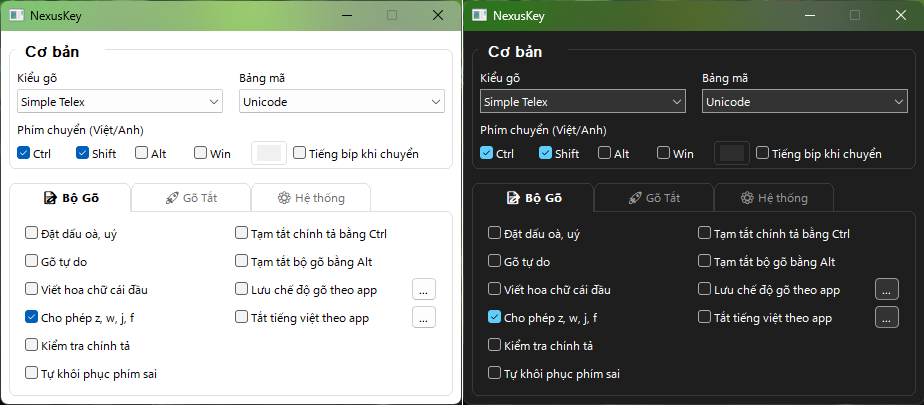
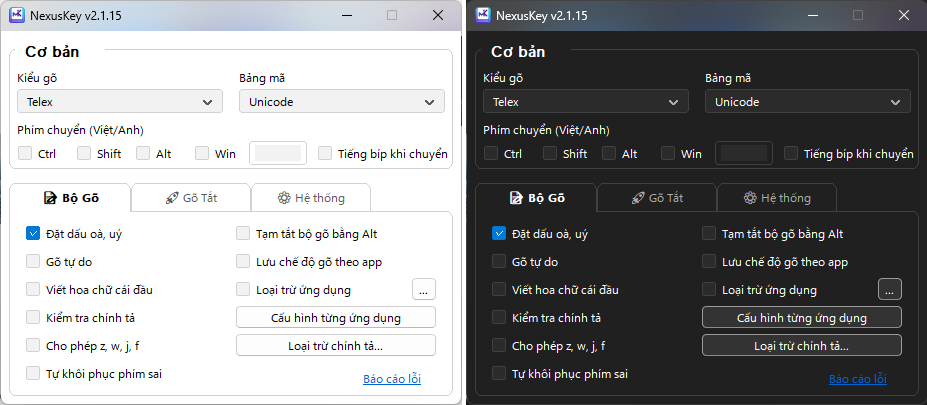
fix: Classic UI fixes — Win10 rendering, GDI leak, theme switch, layout
- Fix Win10 text rendering: TRANSPARENT bkmode → OPAQUE with SetBkColor
  for static/button controls (fixes washed-out text on Win10)
- Fix GDI font leak: call DestroyFonts() before CreateFonts() on re-init
- Fix font not updating on force-light-theme toggle (add SetFontOnAllChildren)
- Fix ConvertTool dialog: dynamic relayout on file/clipboard mode switch,
  custom rounded border for hotkey edit, store label HWNDs for repositioning
- Move force-light-theme setting to right column in SettingMetadata
- Use bodyBold instead of header font for section labels

diff --git a/src/app/classic/ClassicConvertToolDialog.cpp b/src/app/classic/ClassicConvertToolDialog.cpp
@@ -122,8 +122,8 @@ void ClassicConvertToolDialog::CreateControls() {
             hInstance_, nullptr);
     };
 
-    auto label = [&](const wchar_t* text, int cx, int cy, int w) {
-        CreateWindowExW(0, L"STATIC", text, WS_CHILD | WS_VISIBLE | SS_LEFT,
+    auto label = [&](const wchar_t* text, int cx, int cy, int w) -> HWND {
+        return CreateWindowExW(0, L"STATIC", text, WS_CHILD | WS_VISIBLE | SS_LEFT,
             cx, cy, w, rowH, hwnd_, nullptr, hInstance_, nullptr);
     };
 
@@ -171,7 +171,7 @@ void ClassicConvertToolDialog::CreateControls() {
     int browseW = Dpi(28);
     int pathW = cw - Dpi(70) - browseW - Dpi(4);
 
-    labelSourceFile_ = CreateWindowExW(0, L"STATIC", L"File ngu\x1ED3n:",
+    labelSourceFile_ = CreateWindowExW(0, L"STATIC", L"File nguồn:",
         WS_CHILD | SS_LEFT, x, y + Dpi(4), Dpi(70), rowH,
         hwnd_, nullptr, hInstance_, nullptr);
     editSourcePath_ = CreateWindowExW(WS_EX_CLIENTEDGE, L"EDIT", L"",
@@ -184,7 +184,7 @@ void ClassicConvertToolDialog::CreateControls() {
         hwnd_, reinterpret_cast<HMENU>(static_cast<INT_PTR>(IDC_BTN_BROWSE_SOURCE)), hInstance_, nullptr);
     y += rowH + gap + Dpi(4);
 
-    labelDestFile_ = CreateWindowExW(0, L"STATIC", L"File \x0111\x00EDch:",
+    labelDestFile_ = CreateWindowExW(0, L"STATIC", L"File đích:",
         WS_CHILD | SS_LEFT, x, y + Dpi(4), Dpi(70), rowH,
         hwnd_, nullptr, hInstance_, nullptr);
     editDestPath_ = CreateWindowExW(WS_EX_CLIENTEDGE, L"EDIT", L"",
@@ -198,14 +198,14 @@ void ClassicConvertToolDialog::CreateControls() {
     y += rowH + gap * 2 + Dpi(4);
 
     // Section: Bảng mã
-    label(L"Bảng mã nguồn:", x, y + Dpi(4), Dpi(90));
+    labelEncodingSource_ = label(L"Bảng mã nguồn:", x, y + Dpi(4), Dpi(90));
     comboSource_ = CreateWindowExW(0, L"COMBOBOX", L"",
         WS_CHILD | WS_VISIBLE | CBS_DROPDOWNLIST | WS_TABSTOP,
         x + Dpi(90), y, cw - Dpi(90), Dpi(120),
         hwnd_, reinterpret_cast<HMENU>(IDC_COMBO_SOURCE), hInstance_, nullptr);
     y += rowH + gap;
 
-    label(L"Bảng mã đích:", x, y + Dpi(4), Dpi(90));
+    labelEncodingDest_ = label(L"Bảng mã đích:", x, y + Dpi(4), Dpi(90));
     comboDest_ = CreateWindowExW(0, L"COMBOBOX", L"",
         WS_CHILD | WS_VISIBLE | CBS_DROPDOWNLIST | WS_TABSTOP,
         x + Dpi(90), y, cw - Dpi(90), Dpi(120),
@@ -220,11 +220,14 @@ void ClassicConvertToolDialog::CreateControls() {
     y += rowH + gap * 2;
 
     // Section: Phím tắt
-    label(L"Phím tắt:", x, y, cw);
+    labelHotkey_ = label(L"Phím tắt:", x, y, cw);
     y += rowH + gap;
 
     int hkBtnW = Dpi(50);
-    checkHkCtrl_ = check(L"Ctrl", x, y, IDC_CHECK_HK_CTRL);
+    checkHkCtrl_ = CreateWindowExW(0, L"BUTTON", L"Ctrl",
+        WS_CHILD | WS_VISIBLE | BS_AUTOCHECKBOX | WS_TABSTOP,
+        x, y, hkBtnW, rowH,
+        hwnd_, reinterpret_cast<HMENU>(IDC_CHECK_HK_CTRL), hInstance_, nullptr);
     checkHkAlt_ = CreateWindowExW(0, L"BUTTON", L"Alt",
         WS_CHILD | WS_VISIBLE | BS_AUTOCHECKBOX | WS_TABSTOP,
         x + hkBtnW + Dpi(4), y, hkBtnW, rowH,
@@ -238,9 +241,11 @@ void ClassicConvertToolDialog::CreateControls() {
         x + (hkBtnW + Dpi(4)) * 3, y, hkBtnW, rowH,
         hwnd_, reinterpret_cast<HMENU>(IDC_CHECK_HK_WIN), hInstance_, nullptr);
 
-    editHkKey_ = CreateWindowExW(WS_EX_CLIENTEDGE, L"EDIT", L"",
+    int editH = Dpi(16);
+    int editYOffset = (rowH - editH) / 2;
+    editHkKey_ = CreateWindowExW(0, L"EDIT", L"",
         WS_CHILD | WS_VISIBLE | WS_TABSTOP | ES_UPPERCASE | ES_CENTER | ES_AUTOHSCROLL,
-        x + (hkBtnW + Dpi(4)) * 4, y, Dpi(30), rowH,
+        x + (hkBtnW + Dpi(4)) * 4 + Dpi(2), y + editYOffset, Dpi(30), editH,
         hwnd_, reinterpret_cast<HMENU>(IDC_EDIT_HK_KEY), hInstance_, nullptr);
     SendMessageW(editHkKey_, EM_SETLIMITTEXT, 1, 0);
     y += rowH + gap * 3;
@@ -505,6 +510,59 @@ void ClassicConvertToolDialog::UpdateFileMode() {
     ShowWindow(labelDestFile_, show);
     ShowWindow(editDestPath_, show);
     ShowWindow(btnBrowseDest_, show);
+
+    int x = Dpi(kPadding);
+    int cw = Dpi(kWidth - kPadding * 2);
+    int rowH = Dpi(kRowH);
+    int gap = Dpi(kRowGap);
+
+    RECT rcRadio;
+    GetWindowRect(radioClipboard_, &rcRadio);
+    MapWindowPoints(HWND_DESKTOP, hwnd_, reinterpret_cast<LPPOINT>(&rcRadio), 2);
+    int y = rcRadio.bottom + gap;
+
+    if (fileMode_) {
+        // Accounting for the 2 rows of file inputs that are now visible
+        y += rowH + gap + Dpi(4);
+        y += rowH + gap * 2 + Dpi(4);
+    }
+
+    HDWP hdwp = BeginDeferWindowPos(14);
+    
+    hdwp = DeferWindowPos(hdwp, labelEncodingSource_, nullptr, x, y + Dpi(4), Dpi(90), rowH, SWP_NOZORDER | SWP_NOSIZE);
+    hdwp = DeferWindowPos(hdwp, comboSource_, nullptr, x + Dpi(90), y, cw - Dpi(90), Dpi(120), SWP_NOZORDER | SWP_NOSIZE);
+    y += rowH + gap;
+
+    hdwp = DeferWindowPos(hdwp, labelEncodingDest_, nullptr, x, y + Dpi(4), Dpi(90), rowH, SWP_NOZORDER | SWP_NOSIZE);
+    hdwp = DeferWindowPos(hdwp, comboDest_, nullptr, x + Dpi(90), y, cw - Dpi(90), Dpi(120), SWP_NOZORDER | SWP_NOSIZE);
+    y += rowH + gap * 2;
+
+    hdwp = DeferWindowPos(hdwp, labelHotkey_, nullptr, x, y, cw, rowH, SWP_NOZORDER | SWP_NOSIZE);
+    y += rowH + gap;
+
+    int hkBtnW = Dpi(50);
+    int editH = Dpi(16);
+    int editYOffset = (rowH - editH) / 2;
+    hdwp = DeferWindowPos(hdwp, checkHkCtrl_, nullptr, x, y, hkBtnW, rowH, SWP_NOZORDER | SWP_NOSIZE);
+    hdwp = DeferWindowPos(hdwp, checkHkAlt_, nullptr, x + hkBtnW + Dpi(4), y, hkBtnW, rowH, SWP_NOZORDER | SWP_NOSIZE);
+    hdwp = DeferWindowPos(hdwp, checkHkShift_, nullptr, x + (hkBtnW + Dpi(4)) * 2, y, hkBtnW, rowH, SWP_NOZORDER | SWP_NOSIZE);
+    hdwp = DeferWindowPos(hdwp, checkHkWin_, nullptr, x + (hkBtnW + Dpi(4)) * 3, y, hkBtnW, rowH, SWP_NOZORDER | SWP_NOSIZE);
+    hdwp = DeferWindowPos(hdwp, editHkKey_, nullptr, x + (hkBtnW + Dpi(4)) * 4 + Dpi(2), y + editYOffset, Dpi(30), editH, SWP_NOZORDER);
+    y += rowH + gap * 3;
+
+    int halfW = (cw - Dpi(8)) / 2;
+    hdwp = DeferWindowPos(hdwp, btnConvert_, nullptr, x, y, halfW, Dpi(kBtnHeight), SWP_NOZORDER | SWP_NOSIZE);
+    hdwp = DeferWindowPos(hdwp, btnClose_, nullptr, x + halfW + Dpi(8), y, halfW, Dpi(kBtnHeight), SWP_NOZORDER | SWP_NOSIZE);
+    y += Dpi(kBtnHeight) + Dpi(kPadding);
+
+    EndDeferWindowPos(hdwp);
+
+    DWORD style = GetWindowLongW(hwnd_, GWL_STYLE);
+    DWORD exStyle = GetWindowLongW(hwnd_, GWL_EXSTYLE);
+    RECT rcClient = {0, 0, Dpi(kWidth), y};
+    AdjustWindowRectEx(&rcClient, style, FALSE, exStyle);
+    SetWindowPos(hwnd_, nullptr, 0, 0, rcClient.right - rcClient.left, rcClient.bottom - rcClient.top, SWP_NOMOVE | SWP_NOZORDER);
+    InvalidateRect(hwnd_, nullptr, TRUE);
 }
 
 int ClassicConvertToolDialog::Dpi(int value) const noexcept {
@@ -557,6 +615,34 @@ LRESULT CALLBACK ClassicConvertToolDialog::WndProc(HWND hwnd, UINT msg, WPARAM w
             break;
         }
 
+        case WM_PAINT: {
+            PAINTSTRUCT ps{};
+            HDC hdc = BeginPaint(hwnd, &ps);
+
+            if (self->editHkKey_) {
+                RECT rcE;
+                GetWindowRect(self->editHkKey_, &rcE);
+                MapWindowPoints(HWND_DESKTOP, hwnd, reinterpret_cast<LPPOINT>(&rcE), 2);
+                
+                HPEN pen = CreatePen(PS_SOLID, 1, self->theme_.Colors().border);
+                HBRUSH oldBr = (HBRUSH)SelectObject(hdc, GetStockObject(NULL_BRUSH));
+                HPEN oldPen = (HPEN)SelectObject(hdc, pen);
+
+                int padY = (self->Dpi(self->kRowH) - (rcE.bottom - rcE.top)) / 2;
+                rcE.top -= padY;
+                rcE.bottom += padY;
+                InflateRect(&rcE, self->Dpi(6), 0);
+                RoundRect(hdc, rcE.left, rcE.top, rcE.right, rcE.bottom, 6, 6);
+
+                SelectObject(hdc, oldBr);
+                SelectObject(hdc, oldPen);
+                DeleteObject(pen);
+            }
+
+            EndPaint(hwnd, &ps);
+            return 0;
+        }
+
         case WM_ERASEBKGND: {
             HDC hdc = reinterpret_cast<HDC>(wParam);
             RECT rc;
@@ -568,9 +654,11 @@ LRESULT CALLBACK ClassicConvertToolDialog::WndProc(HWND hwnd, UINT msg, WPARAM w
         case WM_CTLCOLORSTATIC:
             return reinterpret_cast<LRESULT>(self->theme_.OnCtlColorStatic(
                 reinterpret_cast<HDC>(wParam), reinterpret_cast<HWND>(lParam)));
-        case WM_CTLCOLOREDIT:
-            return reinterpret_cast<LRESULT>(self->theme_.OnCtlColorEdit(
-                reinterpret_cast<HDC>(wParam), reinterpret_cast<HWND>(lParam)));
+        case WM_CTLCOLOREDIT: {
+            HDC hdc = reinterpret_cast<HDC>(wParam);
+            HWND hctrl = reinterpret_cast<HWND>(lParam);
+            return reinterpret_cast<LRESULT>(self->theme_.OnCtlColorEdit(hdc, hctrl));
+        }
         case WM_CTLCOLORLISTBOX:
             return reinterpret_cast<LRESULT>(self->theme_.OnCtlColorListBox(
                 reinterpret_cast<HDC>(wParam), reinterpret_cast<HWND>(lParam)));

diff --git a/src/core/config/SettingMetadata.h b/src/core/config/SettingMetadata.h
@@ -187,10 +187,6 @@ inline constexpr SettingMeta kSettings[] = {
               "Giao diện tiếng Anh",  "English interface",
               L"Chuyển menu, thông báo sang tiếng Anh",
               L"Switch menus, notifications to English",            2407, 2, 0),
-    NK_SYSTEM("force-light-theme",    forceLightTheme,
-              "Luôn dùng giao diện sáng", "Always use light theme",
-              L"Bỏ qua chế độ tối của Windows, luôn hiển thị giao diện sáng",
-              L"Ignore Windows dark mode, always show light theme",     2410, 2, 0),
 
     // ── Tab 2: Hệ thống — Right column (col 1) ──
     NK_SYSTEM("floating-icon",        showFloatingIcon,
@@ -206,6 +202,10 @@ inline constexpr SettingMeta kSettings[] = {
               L"Auto-check for new version on startup",                  2406, 2, 1),
     NK_ACTION("btn-check-update",     "Kiểm tra", "Check",
               nullptr, nullptr,                                          2504, 2, 1),
+    NK_SYSTEM("force-light-theme",    forceLightTheme,
+              "Luôn dùng giao diện sáng", "Always use light theme",
+              L"Bỏ qua chế độ tối của Windows, luôn hiển thị giao diện sáng",
+              L"Ignore Windows dark mode, always show light theme",     2410, 2, 1),
 };
 
 #undef NK_TYPING

diff --git a/src/app/classic/ClassicSettingsDialog.cpp b/src/app/classic/ClassicSettingsDialog.cpp
@@ -179,7 +179,7 @@ void ClassicSettingsDialog::CreateCompactControls() {
     CreateLabel(L"  Cơ bản  ", gbX + Dpi(6), Dpi(2) + offset, Dpi(90), Dpi(18), 2999);
 
     int x1 = Dpi(kPadding);
-    int y = Dpi(kPadding + 14) + offset;
+    int y = Dpi(kPadding + 8) + offset;
     int contentW = Dpi(kAdvancedWidth - kPadding * 2);
 
     int colW = (contentW - Dpi(kPadding)) / 2;
@@ -940,6 +940,7 @@ void ClassicSettingsDialog::OnSystemToggle(const wchar_t* id, bool value) {
         // Re-init theme with new setting, repaint entire window
         theme_.Destroy();
         theme_.Init(hwnd_, value);
+        SetFontOnAllChildren();
         theme_.ApplyWindowAttributes(hwnd_);
         theme_.ThemeAllChildren(hwnd_);
         InvalidateRect(hwnd_, nullptr, TRUE);
@@ -1189,7 +1190,7 @@ BOOL CALLBACK ClassicSettingsDialog::SetFontProc(HWND hwnd, LPARAM lParam) {
 
     HFONT font = self->theme_.Fonts().body;
     if (GetDlgCtrlID(hwnd) == 2999) {
-        font = self->theme_.Fonts().header;
+        font = self->theme_.Fonts().bodyBold;
     } else if (GetDlgCtrlID(hwnd) == IDC_EDIT_SWITCH_KEY && self->fontSmall_) {
         font = self->fontSmall_;
     }

diff --git a/src/app/classic/ClassicTheme.cpp b/src/app/classic/ClassicTheme.cpp
@@ -38,6 +38,8 @@ void ClassicTheme::Init(HWND hwnd, bool forceLightTheme) {
     // Enable dark mode at app level (affects native combobox, scrollbar, etc.)
     DarkModeHelper::ApplyDarkModeForApp();
 
+    // Destroy old fonts before recreating them to prevent GDI leak
+    DestroyFonts();
     CreateFonts(Classic::GetWindowDpi(hwnd));
     CreateBrushes();
     ApplyWindowAttributes(hwnd);
@@ -382,13 +384,15 @@ HBRUSH ClassicTheme::OnCtlColorDlg(HDC) {
 
 HBRUSH ClassicTheme::OnCtlColorStatic(HDC hdc, HWND) {
     SetTextColor(hdc, colors_.text);
-    SetBkMode(hdc, TRANSPARENT);
+    SetBkColor(hdc, colors_.background);
+    SetBkMode(hdc, OPAQUE);
     return brBackground_;
 }
 
 HBRUSH ClassicTheme::OnCtlColorBtn(HDC hdc, HWND) {
     SetTextColor(hdc, colors_.text);
-    SetBkMode(hdc, TRANSPARENT);
+    SetBkColor(hdc, colors_.background);
+    SetBkMode(hdc, OPAQUE);
     return brBackground_;
 }
 

diff --git a/src/app/classic/ClassicConvertToolDialog.h b/src/app/classic/ClassicConvertToolDialog.h
@@ -59,10 +59,13 @@ private:
     HWND checkSequential_ = nullptr;
 
     // Encoding
+    HWND labelEncodingSource_ = nullptr;
     HWND comboSource_ = nullptr;
+    HWND labelEncodingDest_ = nullptr;
     HWND comboDest_ = nullptr;
 
     // Hotkey
+    HWND labelHotkey_ = nullptr;
     HWND checkHkCtrl_ = nullptr;
     HWND checkHkAlt_ = nullptr;
     HWND checkHkShift_ = nullptr;

diff --git a/src/app/classic/ClassicDialogUtils.h b/src/app/classic/ClassicDialogUtils.h
@@ -8,6 +8,7 @@
 #include <Windows.h>
 #include <TlHelp32.h>
 #include <commdlg.h>
+#include <CommCtrl.h>
 #include <algorithm>
 #include <string>
 #include <vector>
